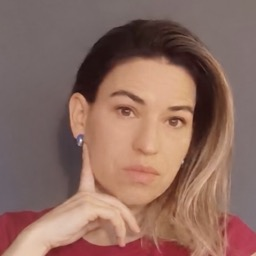
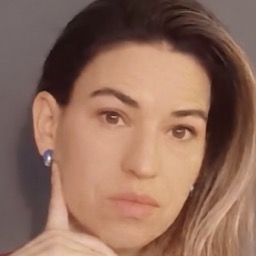
Historias de clientes: retratos en círculo; recorte más cerrado de Jessica

diff --git a/components/caso.tsx b/components/caso.tsx
@@ -192,9 +192,9 @@ export function CitaCaso({ texto, nombre, cargo, retrato, logo }: Cita & { logo?
       <figcaption className="flex items-center gap-3">
         {retrato ? (
           // eslint-disable-next-line @next/next/no-img-element
-          <img src={retrato} alt={`Retrato de ${nombre}`} style={{ width: '64px', height: '64px', objectFit: 'cover', filter: BN }} />
+          <img src={retrato} alt={`Retrato de ${nombre}`} style={{ width: '64px', height: '64px', borderRadius: '50%', objectFit: 'cover', filter: BN }} />
         ) : (
-          <span aria-hidden="true" style={{ width: '64px', height: '64px', backgroundColor: '#2A2A2A', flexShrink: 0 }} />
+          <span aria-hidden="true" style={{ width: '64px', height: '64px', borderRadius: '50%', backgroundColor: '#2A2A2A', flexShrink: 0 }} />
         )}
         <span className="flex flex-col">
           <span style={MONO}>{nombre}</span>
